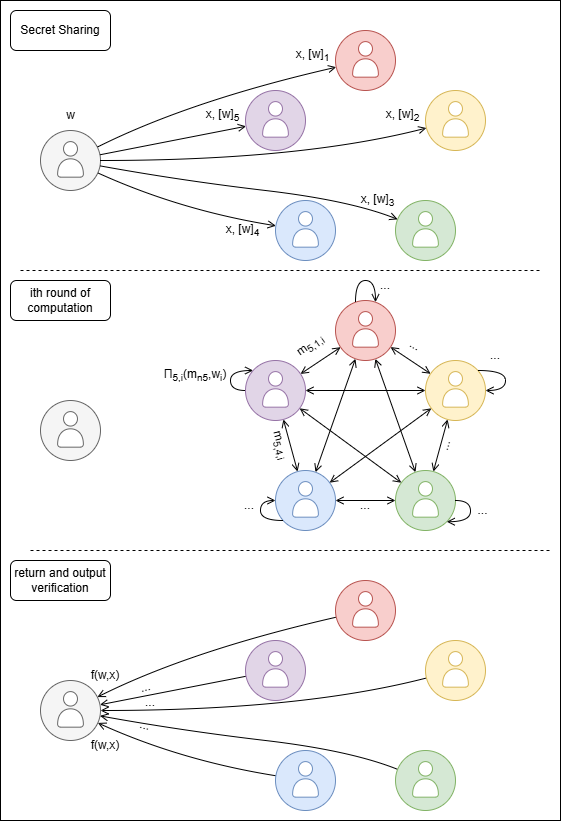
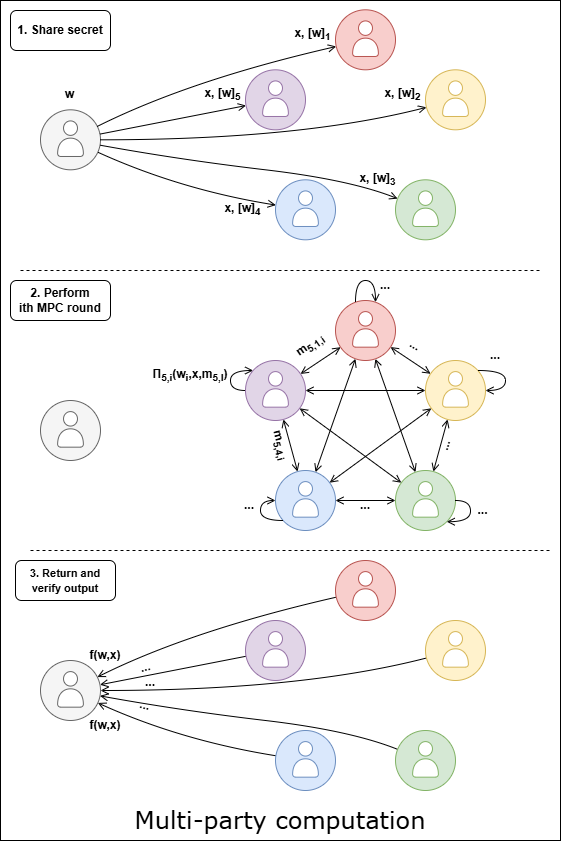
Fix Secret Sharing Demo

diff --git a/src/components/interactive/test.jsx b/src/components/interactive/test.jsx
@@ -13,13 +13,14 @@ export default function test({initialPrimeOrder, initialSecret}) {
         shares[1] = getRandom()
         shares[2] = getRandom()
         shares[3] = getRandom()
-        shares[4] = secret - shares[0] - shares[1] - shares[2] - shares[3]
+        shares[4] = (secret - shares[0] - shares[1] - shares[2] - shares[3]) % primeOrder
+        shares[4] = (shares[4] + primeOrder) % primeOrder
         setShares(shares)
     }
 
     return (
-        <div style={{ padding: '1.5rem', border: '1px solid #ccc', borderRadius: '8px', maxWidth: '320px' }}>
-            <h3>Secret Sharing Example</h3>
+        <div style={{ padding: '1.5rem', border: '1px solid #ccc', borderRadius: '8px', maxWidth: '720px' }}>
+            <h3>Additive Secret Sharing Generator</h3>
 
             <div style={{ display: 'flex', gap: '0.5rem', marginBottom: '1rem' }}>
                 <label>
@@ -27,7 +28,7 @@ export default function test({initialPrimeOrder, initialSecret}) {
                 <input
                     type="number"
                     value={secret}
-                    onChange={(e) => setMin(e.target.value)}
+                    onChange={(e) => setSecret(e.target.value)}
                     style={{ width: '100%' }}
                 />
                 </label>
@@ -36,19 +37,19 @@ export default function test({initialPrimeOrder, initialSecret}) {
                 <input
                     type="number"
                     value={primeOrder}
-                    onChange={(e) => setMax(e.target.value)}
+                    onChange={(e) => setPrimeOrder(e.target.value)}
                     style={{ width: '100%' }}
                 />
                 </label>
             </div>
 
-            <button onClick={setShares} style={{ width: '100%', padding: '0.5rem', cursor: 'pointer' }}>
+            <button onClick={share} style={{ width: '100%', padding: '0.5rem', cursor: 'pointer' }}>
                 Generate
             </button>
 
             {shares !== null && (
-                <p style={{ fontSize: '1.5rem', fontWeight: 'bold', textAlign: 'center', marginTop: '1rem' }}>
-                {shares[0]}
+                <p style={{ fontSize: '1.25rem', fontWeight: 'bold', textAlign: 'center', marginTop: '1rem' }}>
+                {shares[0]} + {shares[1]} + {shares[2]} + {shares[3]} + {shares[4]} = {secret} mod {primeOrder}
                 </p>
             )}
         </div>
